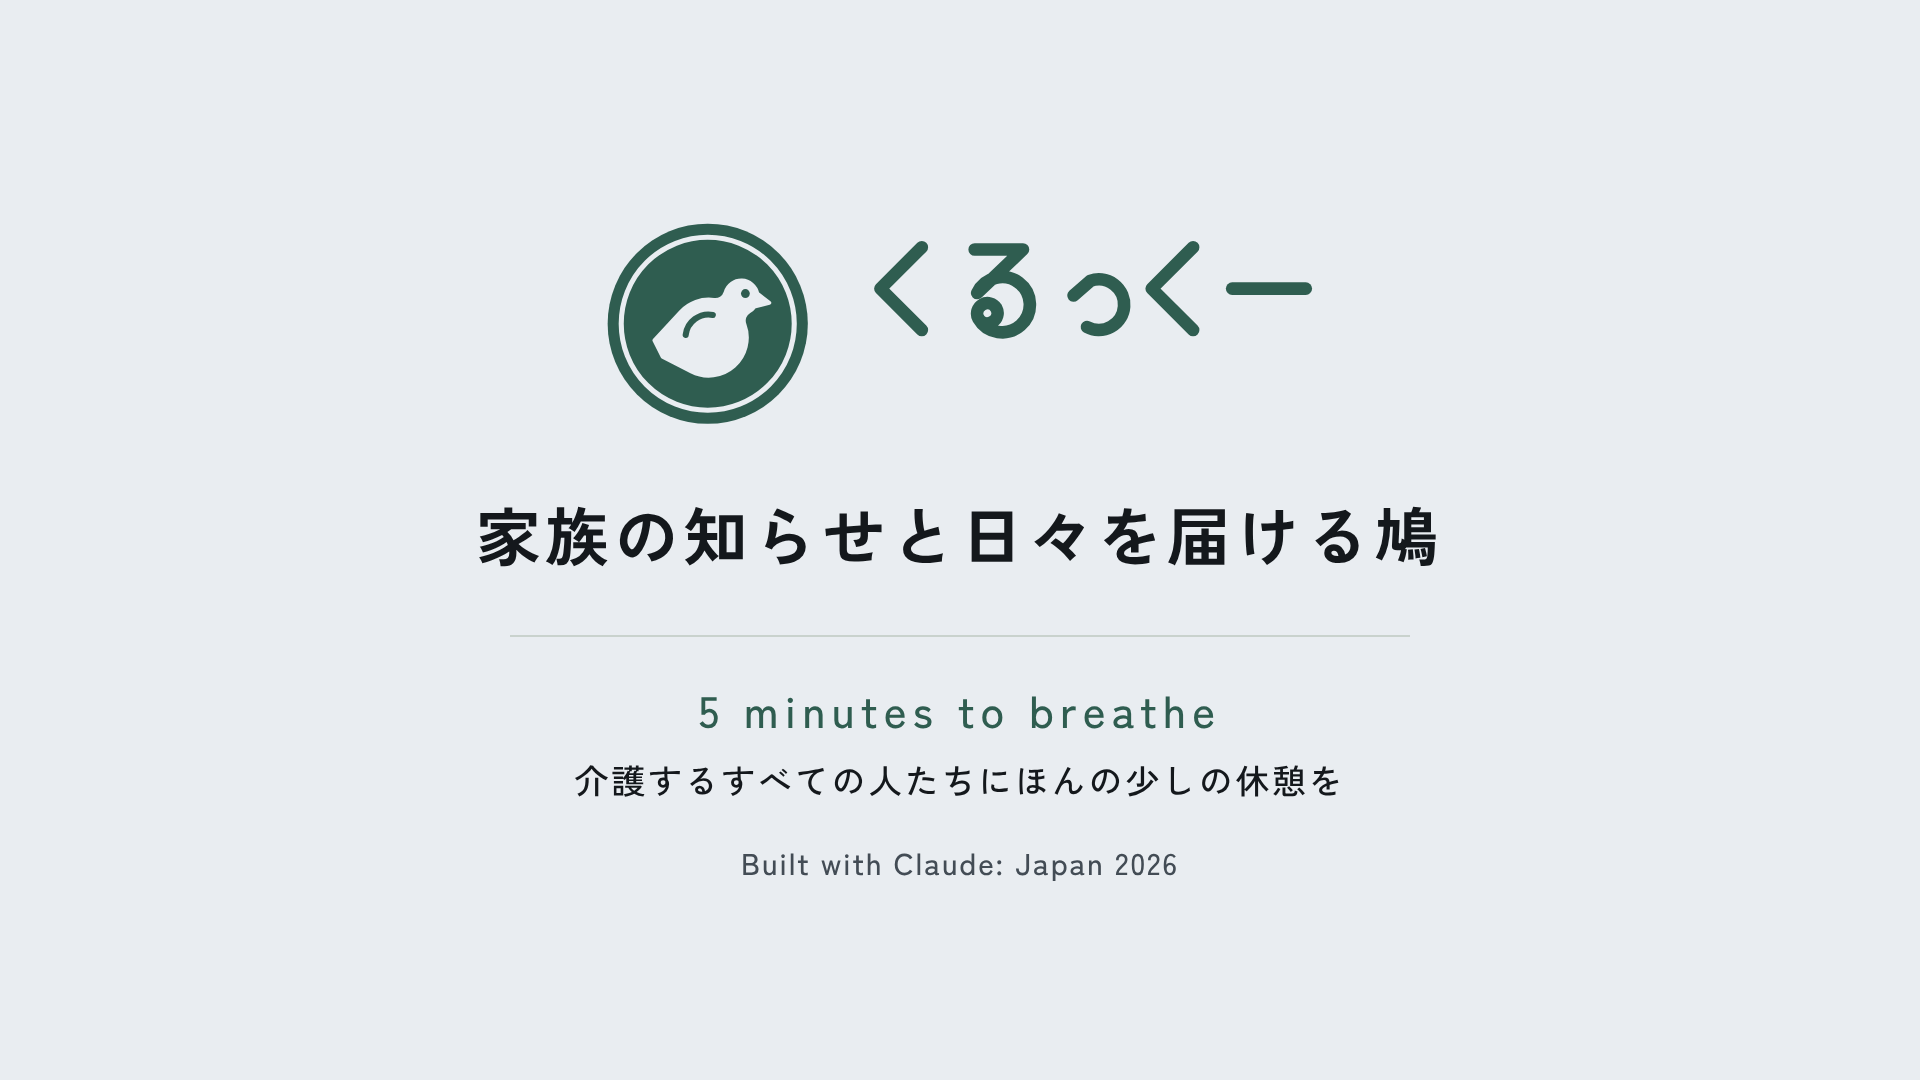
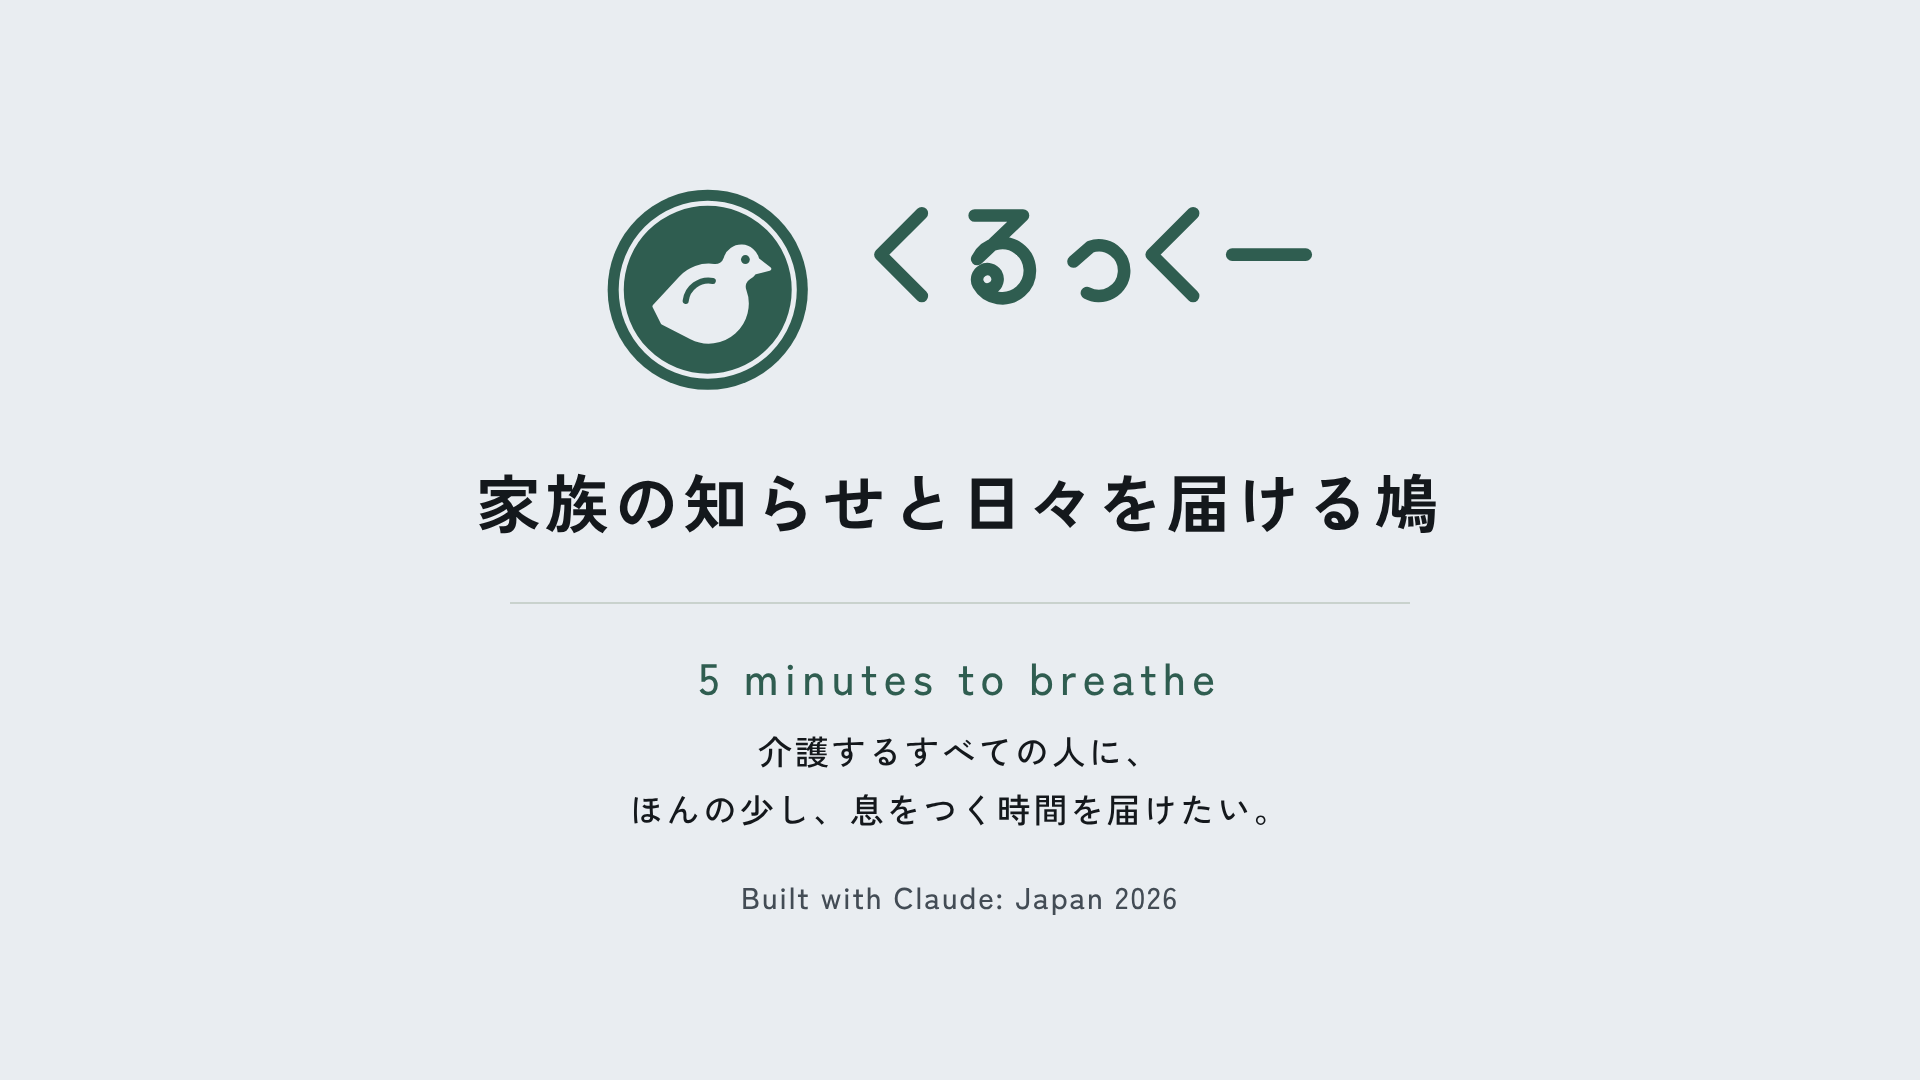
締めのことばを「息をつく時間を届けたい」に
Claude-Session: https://claude.ai/code/session_013CETVtP6uaoyUF1uvHm5HP

diff --git a/docs/brand.md b/docs/brand.md
@@ -41,7 +41,9 @@
 ## 大事なことば（11/5 葵依）
 
 > **5 minutes to breathe**
-> 介護するすべての人たちにほんの少しの休憩を
+> 介護するすべての人に、ほんの少し、息をつく時間を届けたい。
 
-葵依が自分自身に送る言葉でもある。くるっくーが目指すこと（同じ質問に答える回数や、ホワイトボードを書き直す手間を減らして、介護する人に少しの休憩を）を表す。効果を確かめた言葉ではなく、願いとして使う。
+（11/5 に「介護するすべての人に、ほんの少し、息をつく時間を届けたい。」から変更。「届けたい」は鳩が届けるものにかけている）
+
+葵依が自分自身に送る言葉でもある。くるっくーが目指すこと（同じ質問に答える回数や、ホワイトボードを書き直す手間を減らして、介護する人に息をつく時間を）を表す。効果を確かめた言葉ではなく、願いとして使う。
 - 使う場所：デモ動画の最後の締め（`docs/demo/ending-breathe.png`）。ほかの場所にも入れてよい

diff --git a/docs/demo/README.md b/docs/demo/README.md
@@ -3,7 +3,7 @@
 | ファイル | 使う場所 | 中身 |
 | --- | --- | --- |
 | `title.png`（1920×1080） | 冒頭のタイトル | 家と鳩（線の鳩）＋線の「くるっくー」＋「家族の知らせと日々を届ける鳩」 |
-| `ending-breathe.png`（1920×1080） | 最後の締め（11/5 案） | `ending.png` に「5 minutes to breathe／介護するすべての人たちにほんの少しの休憩を」（葵依のことば）を加えたもの |
+| `ending-breathe.png`（1920×1080） | 最後の締め（11/5 案） | `ending.png` に「5 minutes to breathe／介護するすべての人に、ほんの少し、息をつく時間を届けたい。」（葵依のことば）を加えたもの |
 | `ending.png`（1920×1080） | 最後の締め（元の版） | ロゴ（判子の鳩＋線の「くるっくー」）＋「家族の知らせと日々を届ける鳩」＋ Built with Claude: Japan 2026 |
 
 - 家と鳩：葵依が作成（11/5）。ロゴ：葵依が Claude と作った案から採用（`docs/brand.md`）。
